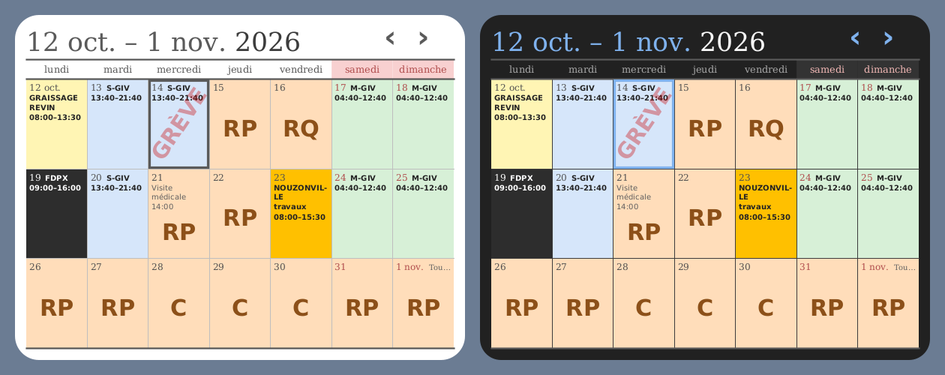
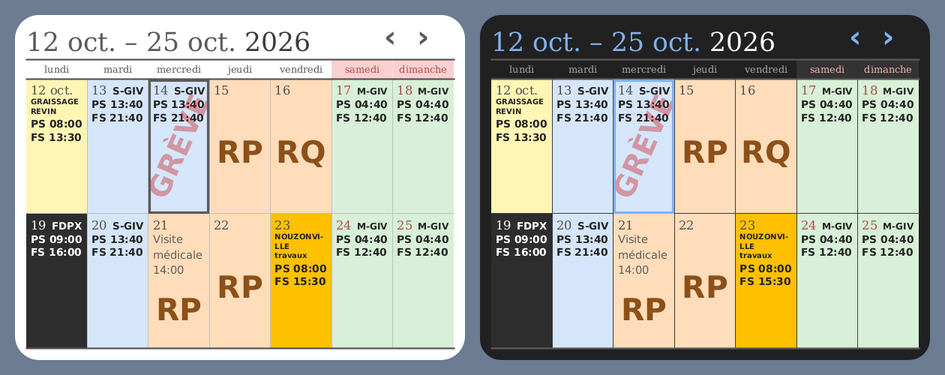
Add files via upload

diff --git a/app/src/main/java/fr/planning/commandes/DessinCalendrier.java b/app/src/main/java/fr/planning/commandes/DessinCalendrier.java
@@ -33,7 +33,7 @@ final class DessinCalendrier {
     // Mois : 6 lignes de 130 ; 15 jours : 3 lignes de 260 (widget_calendrier_15.xml).
     static final float H_TITRE = 130f, H_ENTETE = 56f, H_GRILLE = 780f, H_BAS = 34f;  // 130 + 56 + 780 + 34 = 1000
     static final float MARGE = 25f, COL = 950f / 7f;                                    // 25 + 7 × COL + 25 = 1000
-    static final int NB_LIGNES = 6, LIGNES_15 = 3;
+    static final int NB_LIGNES = 6, LIGNES_15 = 2;
     static final String[] MOIS_COURTS = {"janv.", "févr.", "mars", "avr.", "mai", "juin", "juil.", "août", "sept.",
             "oct.", "nov.", "déc."};
 
@@ -62,7 +62,7 @@ final class DessinCalendrier {
         return new Periode(cases(annee, mois), NB_LIGNES, MOIS[mois - 1], String.valueOf(annee), false);
     }
 
-    /** 15 jours : 3 semaines complètes à partir du lundi « lundi ». */
+    /** « 15 jours » : 2 semaines complètes (2 lignes) à partir du lundi « lundi ». */
     static Periode quinzaine(Calendar lundi) {
         String[] r = new String[7 * LIGNES_15];
         Calendar d = (Calendar) lundi.clone();
@@ -310,6 +310,7 @@ final class DessinCalendrier {
         float hEntete = yGrille - yTrait;
         // unité de taille des textes : celle de la page A4 qui aurait des cases de cette taille
         float u = Math.min(col / 0.13429f, lig / 0.0965f);
+        if (v.quinzaine) u = Math.min(col / 0.10f, lig / 0.0965f);   // cases hautes : textes plus grands
         float finT = Math.max(1f, 0.5f * dp), ep = Math.max(1.5f, 1.1f * dp);
 
         String[] cases = v.cases;
@@ -415,14 +416,14 @@ final class DessinCalendrier {
             if (j == null) continue;
             cv.save();
             cv.clipRect(cx0, cy0, cx0 + col, cy1);           // rien ne déborde sur la case voisine
-            dessinerCase(j, cx0, cy0, cy1, col, u, base, numTxt, tNum, largFerie, TXT, DOUX, REPOS, cGros);
+            dessinerCase(j, cx0, cy0, cy1, col, u, base, numTxt, tNum, largFerie, TXT, DOUX, REPOS, cGros, v.quinzaine);
             cv.restore();
         }
         bordures(W, H, dp, x0, col, yGrille, lig, cases, jours, aujourdhui, titre);
     }
 
     private void dessinerCase(JSONObject j, float cx0, float cy0, float cy1, float col, float u, float base, String numTxt,
-                              float tNum, float largFerie, int TXT, int DOUX, int REPOS, int cGros) {
+                              float tNum, float largFerie, int TXT, int DOUX, int REPOS, int cGros, boolean sansAcheminements) {
         float pad = u * 0.007f, ascNum = asc(serif, tNum);
         {
             // service « spécial » : à côté du numéro, sur une ou deux lignes
@@ -471,12 +472,12 @@ final class DessinCalendrier {
 
             // lignes (codes, horaires, libellés) : on réduit jusqu'à ce que tout tienne ;
             // si les lignes détaillées ne tiennent pas, horaires courts à la place (« hc »)
-            float taille = u * 0.0145f;
+            float taille = u * (sansAcheminements ? 0.02f : 0.0145f);
             List<Object[]> lignes;
             float hL;
             boolean compact = false;
             while (true) {
-                lignes = composer(l, compact ? j.optString("hc", "") : null, taille, largeur, TXT, DOUX, REPOS);
+                lignes = composer(l, compact ? j.optString("hc", "") : null, taille, largeur, TXT, DOUX, REPOS, sansAcheminements);
                 hL = 0.93f * reel(taille) + reel(taille) * 0.32f;
                 boolean tient = lignes.size() * hL <= hautDispo;
                 for (Object[] x : lignes) if (larg((String) x[0], (Typeface) x[1], (Float) x[2]) > largeur) tient = false;
@@ -484,7 +485,7 @@ final class DessinCalendrier {
                 if (taille <= u * 0.006f || reel(taille) > taille) {
                     if (compact) break;
                     compact = true;                                   // on recommence en version courte
-                    taille = u * 0.0145f;
+                    taille = u * (sansAcheminements ? 0.02f : 0.0145f);
                     continue;
                 }
                 taille *= 0.96f;
@@ -522,16 +523,29 @@ final class DessinCalendrier {
     }
 
     /** Lignes d'une case : [texte, police, taille, couleur]. horairesCourts != null : version courte. */
-    private List<Object[]> composer(JSONArray l, String horairesCourts, float taille, float largeur, int TXT, int DOUX, int REPOS) {
+    private List<Object[]> composer(JSONArray l, String horairesCourts, float taille, float largeur, int TXT, int DOUX, int REPOS,
+                                    boolean sansAcheminements) {
         List<Object[]> lignes = new ArrayList<>();
         boolean hcMis = false;
+        // « 15 jours » : pas d'acheminements (AUTO…), seulement la prise et la fin de service, sur deux lignes
+        boolean psFs = false;
+        if (sansAcheminements && l != null) {
+            for (int m = 0; m < l.length(); m++) {
+                JSONArray x = l.optJSONArray(m);
+                String s = x == null ? "" : x.optString(0, "");
+                if (x != null && x.optString(1, "").equals("h") && (s.startsWith("PS ") || s.startsWith("FS "))) psFs = true;
+            }
+        }
         if (l != null) {
             for (int m = 0; m < l.length(); m++) {
                 JSONArray x = l.optJSONArray(m);
                 if (x == null) continue;
                 String t = x.optString(0, ""), style = x.optString(1, "g"), role = x.optString(2, "t");
                 int coul = role.equals("r") ? REPOS : role.equals("d") ? DOUX : TXT;
-                if (style.equals("h")) {
+                if (style.equals("h") && psFs && horairesCourts == null) {
+                    if (!t.startsWith("PS ") && !t.startsWith("FS ")) continue;           // acheminement
+                    for (String s : t.split("\\s+(?=FS )")) lignes.add(new Object[]{s.trim(), sansGras, taille, coul});
+                } else if (style.equals("h")) {
                     if (horairesCourts == null) lignes.add(new Object[]{t, sansGras, taille, coul});
                     else if (!hcMis && !horairesCourts.isEmpty()) {
                         lignes.add(new Object[]{horairesCourts, sansGras, taille, coul});

diff --git a/app/src/main/java/fr/planning/commandes/WidgetReglages.java b/app/src/main/java/fr/planning/commandes/WidgetReglages.java
@@ -22,7 +22,7 @@ import android.widget.TextView;
  *   - Style : d'origine (suit le thème du téléphone ; pour le calendrier, le thème du planning) ou GrapheneOS (toujours sombre) ;
  *   - Horaires : automatique (selon la largeur), toujours, jamais    } widget « Planning »
  *   - Durée : 7 jours ou 14 jours (2 pages)                           } seulement
- *   Calendrier : style + durée (le mois entier ou 15 jours = 3 semaines).
+ *   Calendrier : style + durée (le mois entier ou « 15 jours » = 2 semaines, sans les acheminements).
  * Les choix sont gardés dans les préférences « widget » (clés + numéro du widget).
  */
 public class WidgetReglages extends Activity {
@@ -68,7 +68,7 @@ public class WidgetReglages extends Activity {
                 new String[]{"7 jours", "14 jours (2 pages, bouton « Suite »)"},
                 p.getInt(DUREE + id, 7) == 14 ? 1 : 0)
                 : calendrier ? groupe(col, "Durée",
-                new String[]{"Le mois entier", "15 jours : les 3 semaines à partir de cette semaine (cases plus grandes)"},
+                new String[]{"Le mois entier", "15 jours : cette semaine et la suivante (2 lignes, sans les acheminements)"},
                 p.getInt(DUREE + id, 0) == 15 ? 1 : 0) : null;
         if (planning) {
             TextView aide = new TextView(this);

diff --git a/app/src/main/java/fr/planning/commandes/PlanningWidgetCalendrier.java b/app/src/main/java/fr/planning/commandes/PlanningWidgetCalendrier.java
@@ -24,8 +24,9 @@ import java.util.Calendar;
  *   - Le jour J est encadré.
  * Réglé à la pose (WidgetReglages, aussi par appui long → Réglages) :
  *   - style d'origine = thème du planning choisi dans l'application (comme le PDF), ou GrapheneOS (toujours sombre) ;
- *   - durée : le mois entier (6 lignes), ou 15 jours = 3 semaines à partir de la semaine en cours
- *     (widget_calendrier_15.xml, cases deux fois plus hautes ; ‹ › avancent de 2 semaines).
+ *   - durée : le mois entier (6 lignes), ou « 15 jours » = cette semaine et la suivante (widget_calendrier_15.xml,
+ *     2 lignes, cases 3 fois plus hautes, textes plus grands, sans les acheminements AUTO : seulement PS / FS ;
+ *     ‹ › avancent de 2 semaines).
  */
 public class PlanningWidgetCalendrier extends WidgetBase {
 

diff --git a/README.md b/README.md
@@ -57,7 +57,7 @@ Pas de compte, pas d'abonnement, **pas de données envoyées sur Internet**. Un 
 
 <img src="docs/captures/widget-calendrier-15.png" alt="Widget Calendrier sur 15 jours, styles d'origine et GrapheneOS" width="820">
 
-*Le même widget réglé sur **15 jours** : 3 semaines à partir de la semaine en cours, cases plus grandes.*
+*Le même widget réglé sur **15 jours** : cette semaine et la suivante, en grandes cases, sans les acheminements (seulement prise et fin de service).*
 
 ---
 
